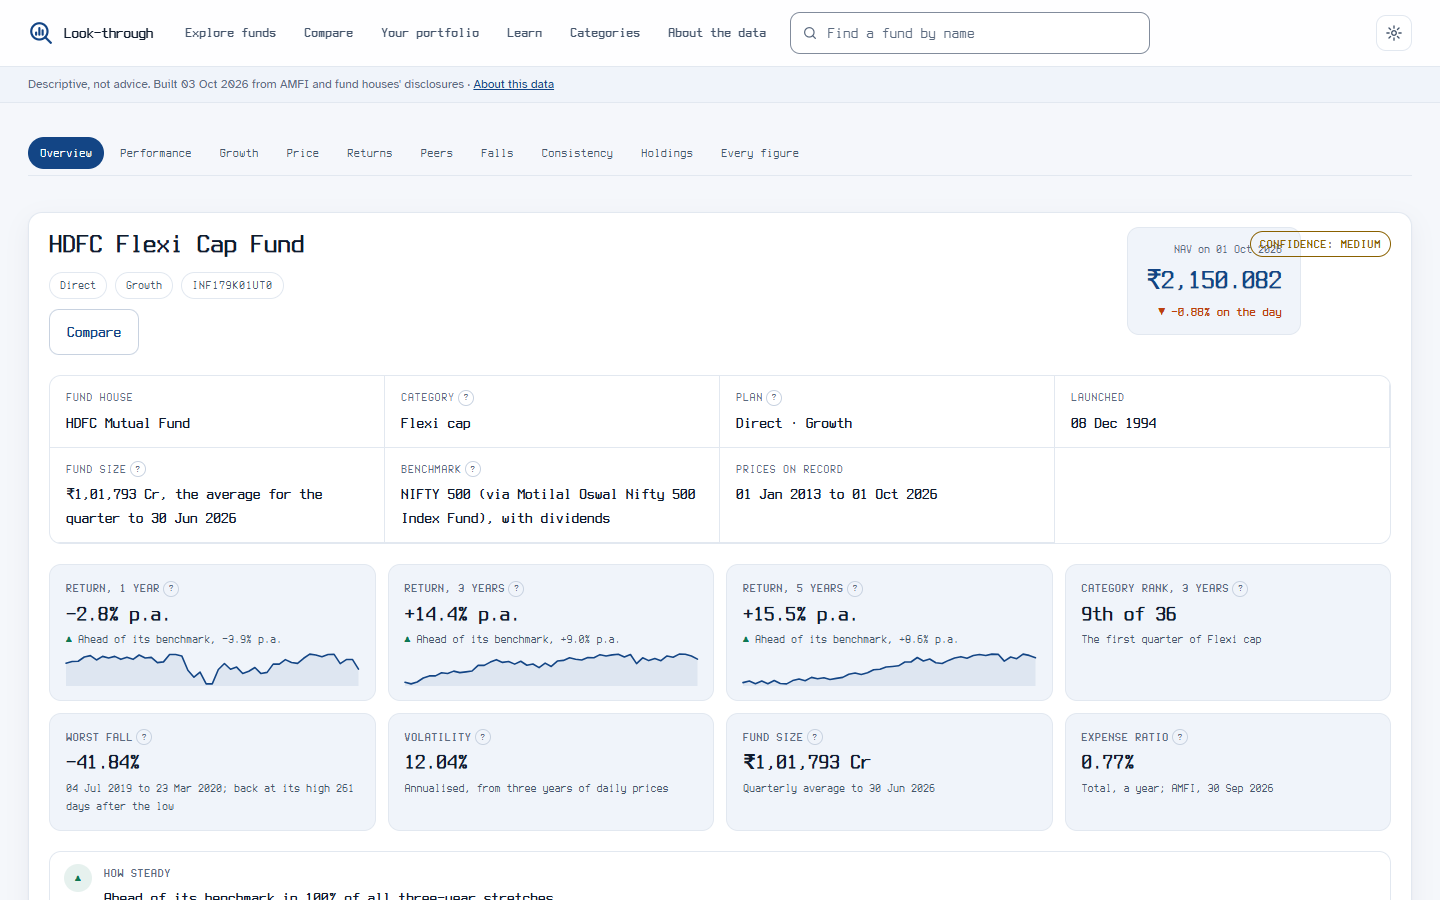
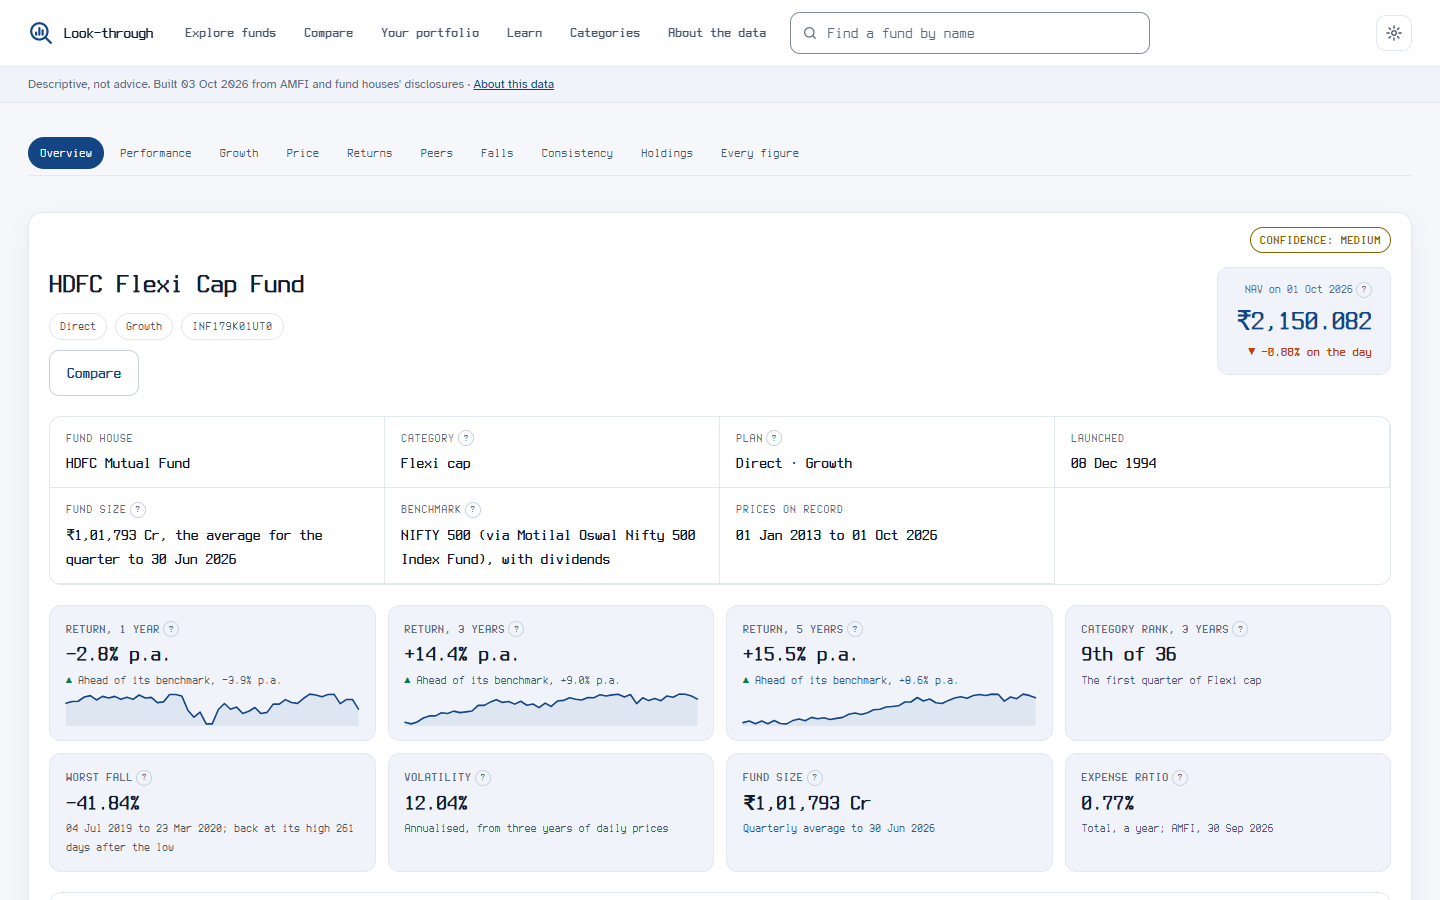
README and tour point at didmysipwork.vercel.app
- README: the public site's address, and section 6 rewritten for Vercel
  (import settings, the first deployment's 404, tracking gh-pages, Vercel
  Authentication off, --base "" when publishing by hand).
- The screenshots recaptured from the Vercel site; the tour re-rendered with
  the new address on its closing card; capture.mjs defaults to it.
- PROGRESS: the site is served by Vercel since 2026-10-03.

diff --git a/video/src/EndScene.tsx b/video/src/EndScene.tsx
@@ -42,7 +42,7 @@ export const EndScene: React.FC = () => {
           }),
         }}
       >
-        harshilsaini26.github.io/Mutual-Fund-Portfolio-Analyser.io
+        didmysipwork.vercel.app
       </Interactive.Div>
     </AbsoluteFill>
   );

diff --git a/README.md b/README.md
@@ -24,7 +24,7 @@ describes one fund and overlap is a property of the set.
 ### The public site
 
 Every fund's page is also published, free and rebuilt every night, at
-<https://harshilsaini26.github.io/Mutual-Fund-Portfolio-Analyser.io/>. Nothing you enter
+<https://didmysipwork.vercel.app/>. Nothing you enter
 there leaves your browser.
 
 ![A 20-second tour of the public site: the front page, a fund page, Explore funds, Compare, Your portfolio](video/tour.gif)
@@ -297,7 +297,7 @@ and ICICI what they have published.
 
 ## 6. Publish the public fund explorer (optional)
 
-A static copy of the fund pages, for anyone to browse on GitHub Pages without installing
+A static copy of the fund pages, for anyone to browse on the web without installing
 anything: every open fund with a Direct plan and a year of prices, about 1,800.
 
 **It builds itself.** A GitHub Actions workflow (`.github/workflows/site.yml`) runs every
@@ -305,7 +305,8 @@ night and whenever you start it by hand. It builds on a fresh machine from the p
 sources alone (AMFI's daily prices, categories, fund sizes and expense ratios; mfapi.in
 for price history; fund houses' own portfolio files where they fetch themselves, and
 Groww's fund pages for the rest), computes every figure in Python as the app does, and
-publishes to the `gh-pages` branch. Nothing is kept between runs except the site itself,
+pushes the site to the `gh-pages` branch, which Vercel serves as it is. Nothing is kept
+between runs except the site itself,
 which carries a compact copy of every fund's prices (`data/nav/`, about 30 MB) and of the
 portfolios read from Groww (`data/holdings/`), so a normal night asks mfapi for nothing.
 The first run fetches every fund's history, about an hour. Groww's pages are read a
@@ -316,9 +317,16 @@ To turn it on, once:
 
 1. **Settings → Secrets and variables → Actions → Variables:** add `MF_CONTACT_EMAIL`,
    the address sent with every request (the build stops without it).
-2. **Settings → Pages → Deploy from a branch → `gh-pages` / root.**
+2. **On [Vercel](https://vercel.com) (the free Hobby plan is enough):** import this
+   repository with the application preset **Other**, and override the build, install
+   and output settings to empty, `.` for the output. The first deployment is of `main`
+   and shows a 404: `main` holds the source, and its `vercel.json` switches its own
+   deployments off.
 3. **Actions → site → Run workflow**, to publish the first time rather than waiting
-   for the night.
+   for the night. Its push to `gh-pages` gives Vercel that branch's first deployment.
+4. **On Vercel, Settings → Environments → Production:** track the `gh-pages` branch,
+   promote that deployment to production, and check that Deployment Protection's
+   Vercel Authentication is off, so visitors are not asked to log in.
 
 To build the same thing on your own machine, into a folder you can preview:
 
@@ -351,10 +359,11 @@ and fund houses' own disclosures, and nothing else:
   apply to what it publishes.
 - **None of your data.** The build never opens your ledger.
 
-The site appears at `https://<user>.github.io/<repository>/`; for this repository,
-<https://harshilsaini26.github.io/Mutual-Fund-Portfolio-Analyser.io/>.
-`python -m jobs.publish_site --push` still publishes from this machine's own warehouse,
-which the next nightly build replaces.
+The site appears at `https://<project>.vercel.app/`; for this repository,
+<https://didmysipwork.vercel.app/>. Its links start at the address's root, which is why the workflow builds with
+`--base ""`; the site carries a `vercel.json` that redirects a page's address without
+its slash to the address with one. `python -m jobs.publish_site --base "" --push` still
+publishes from this machine's own warehouse, which the next nightly build replaces.
 
 ---
 

diff --git a/docs/PROGRESS.md b/docs/PROGRESS.md
@@ -196,7 +196,7 @@ look-through rather than today's. A third was found beside them: a figure labell
 span it.
 
 **A public copy of the fund pages** -- 754 funds -- builds with
-`python -m jobs.publish_site` and publishes to GitHub Pages with `--push`. It carries
+`python -m jobs.publish_site` and publishes to `gh-pages` with `--push`. It carries
 AMFI's prices and fund houses' own disclosures only: NSE's index levels are licensed for
 personal use, so benchmark comparisons stay in the self-hosted app, and the build never
 opens a personal ledger. Publishing is only ever the user's own command. Its front
@@ -239,10 +239,10 @@ open fund's (about an hour). The public site has all of them: see below.
 
 ## The public site
 
-<https://harshilsaini26.github.io/Mutual-Fund-Portfolio-Analyser.io/>, built
-every night by GitHub Actions from the APIs alone (DECISIONS V1-75):
-`.github/workflows/site.yml` runs `jobs.build_site` on a fresh machine and
-pushes one commit to `gh-pages`. Measured on the first full build, 2026-09-26:
+<https://didmysipwork.vercel.app/>, built every night by GitHub Actions from the APIs alone
+(DECISIONS V1-75): `.github/workflows/site.yml` runs `jobs.build_site` on a fresh
+machine and pushes one commit to `gh-pages`, which Vercel serves from the root of its
+address (V1-92; GitHub Pages served it until 2026-10-03). Measured on the first full build, 2026-09-26:
 
 - **1,864 open funds with a Direct plan**; 1,661 have a year of prices and a page.
 - **History**: the first build fetches every fund from mfapi.in (~1 hour at the
